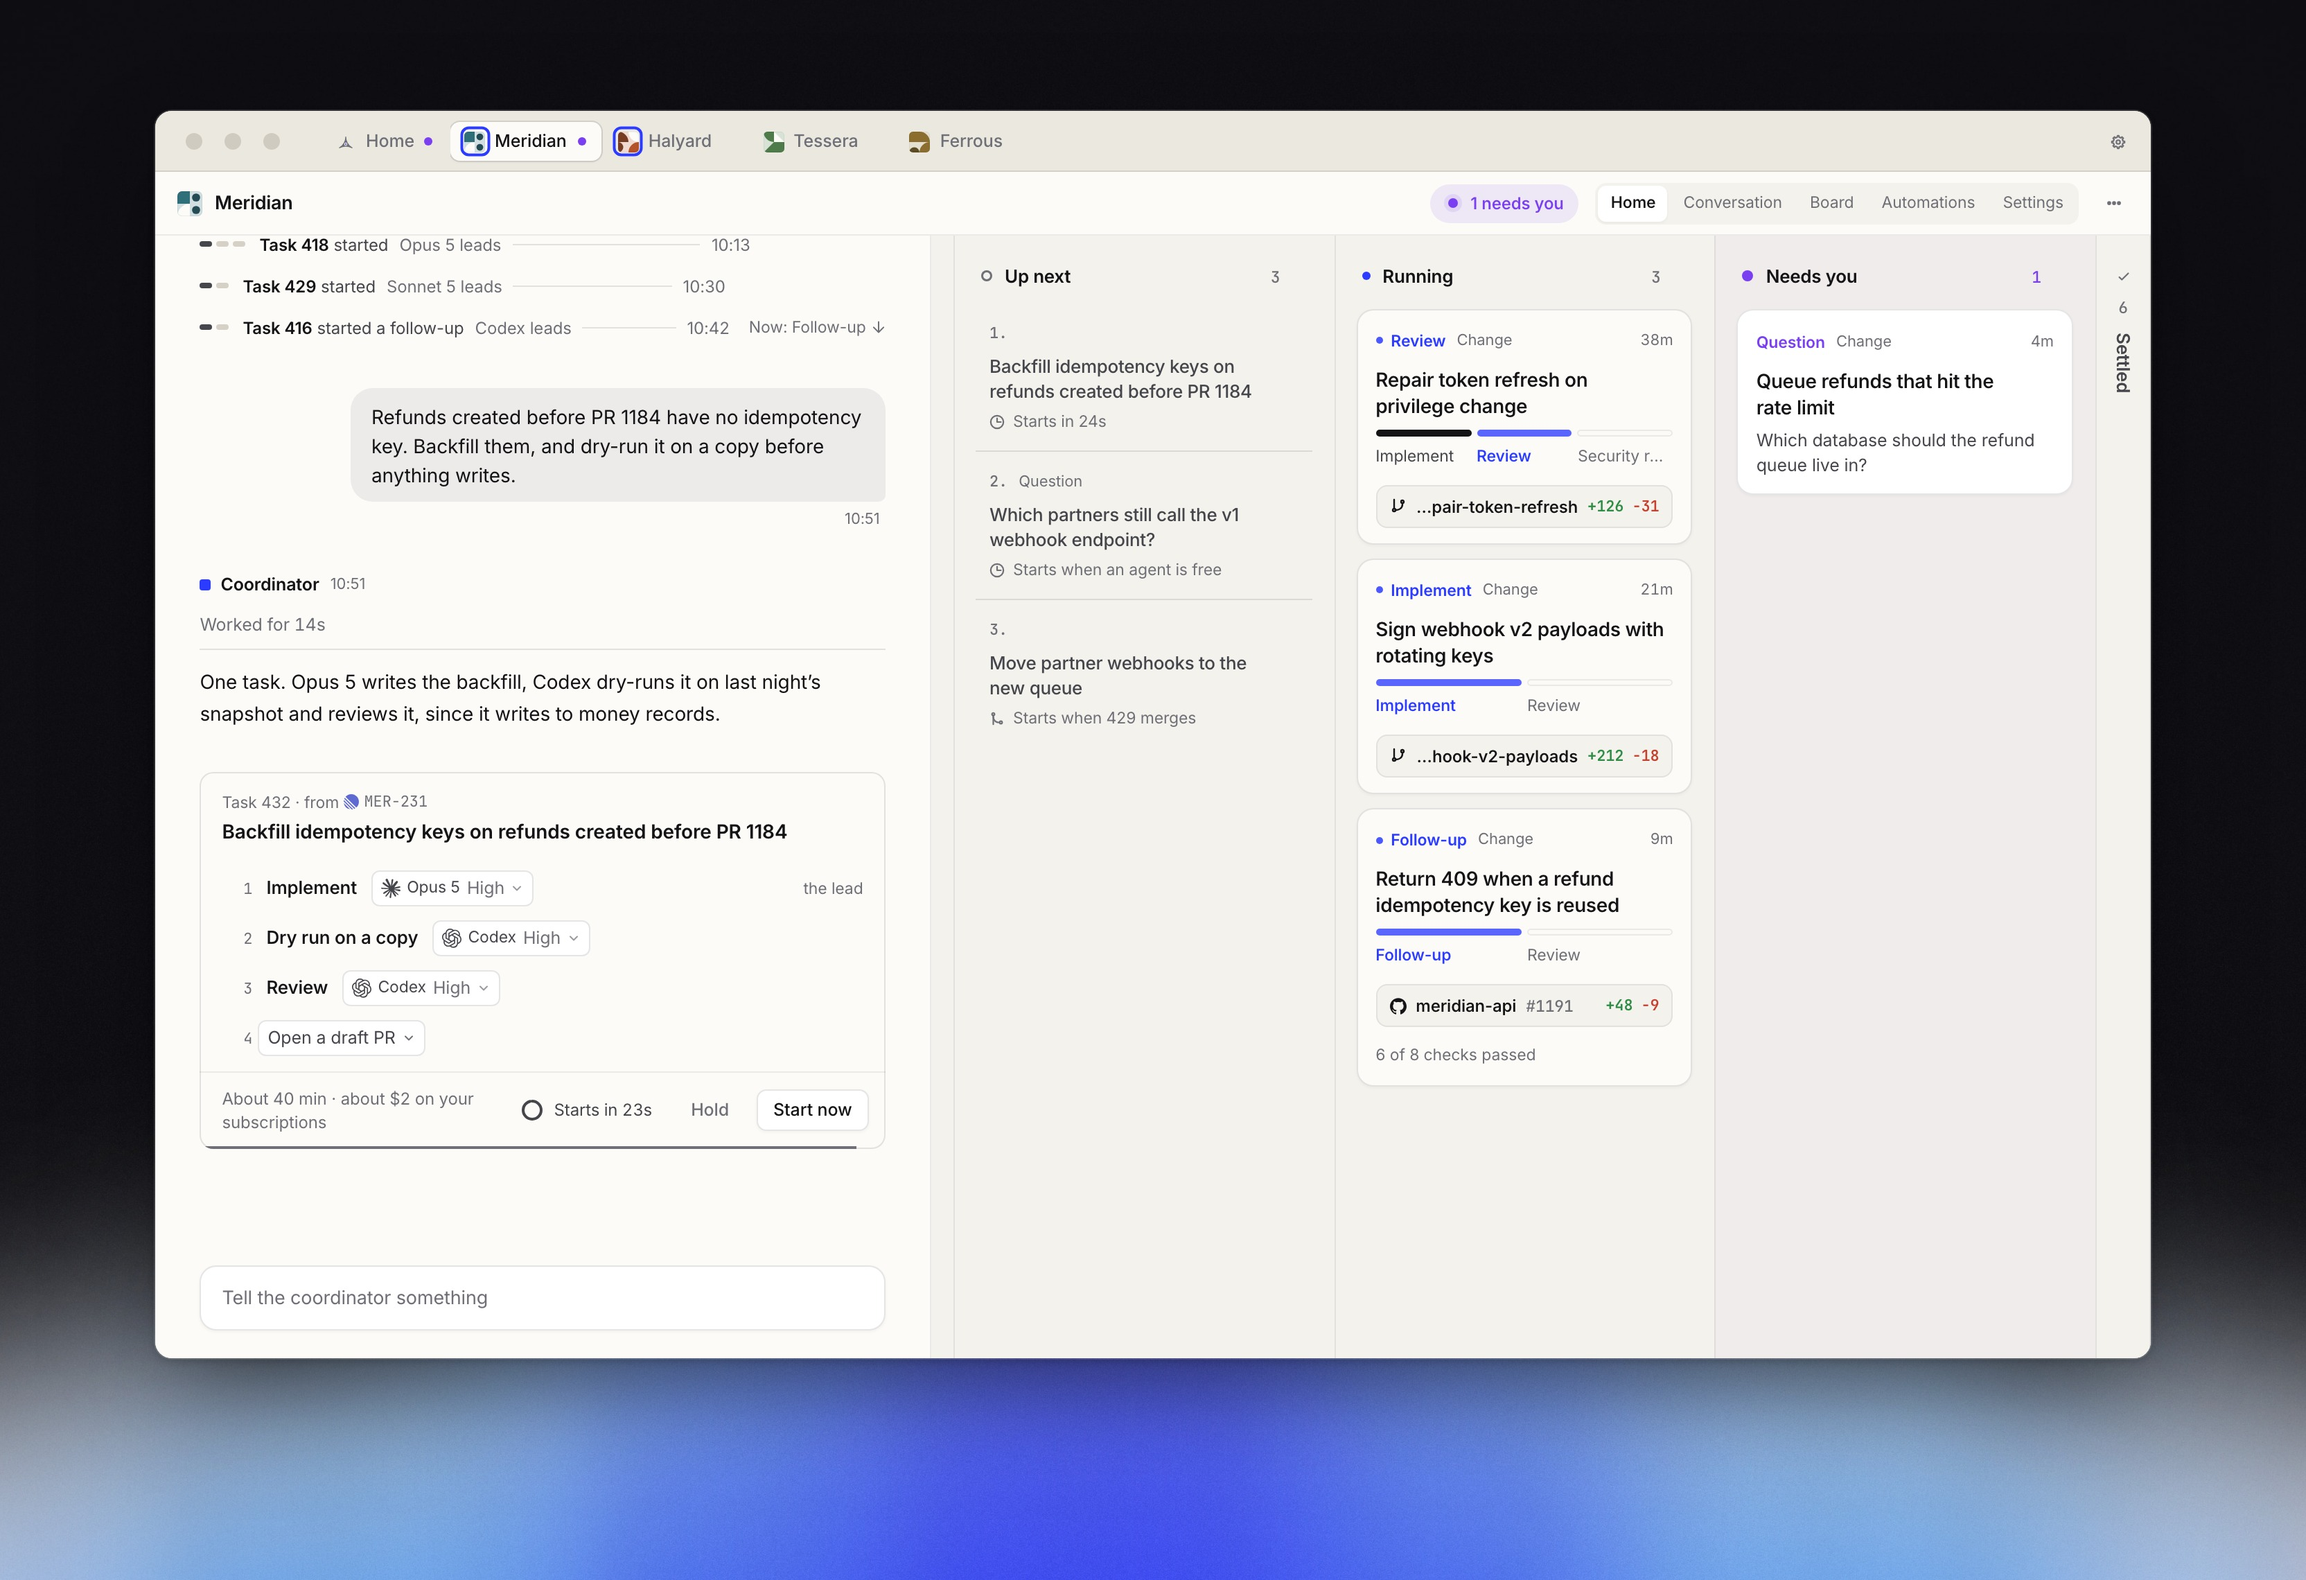
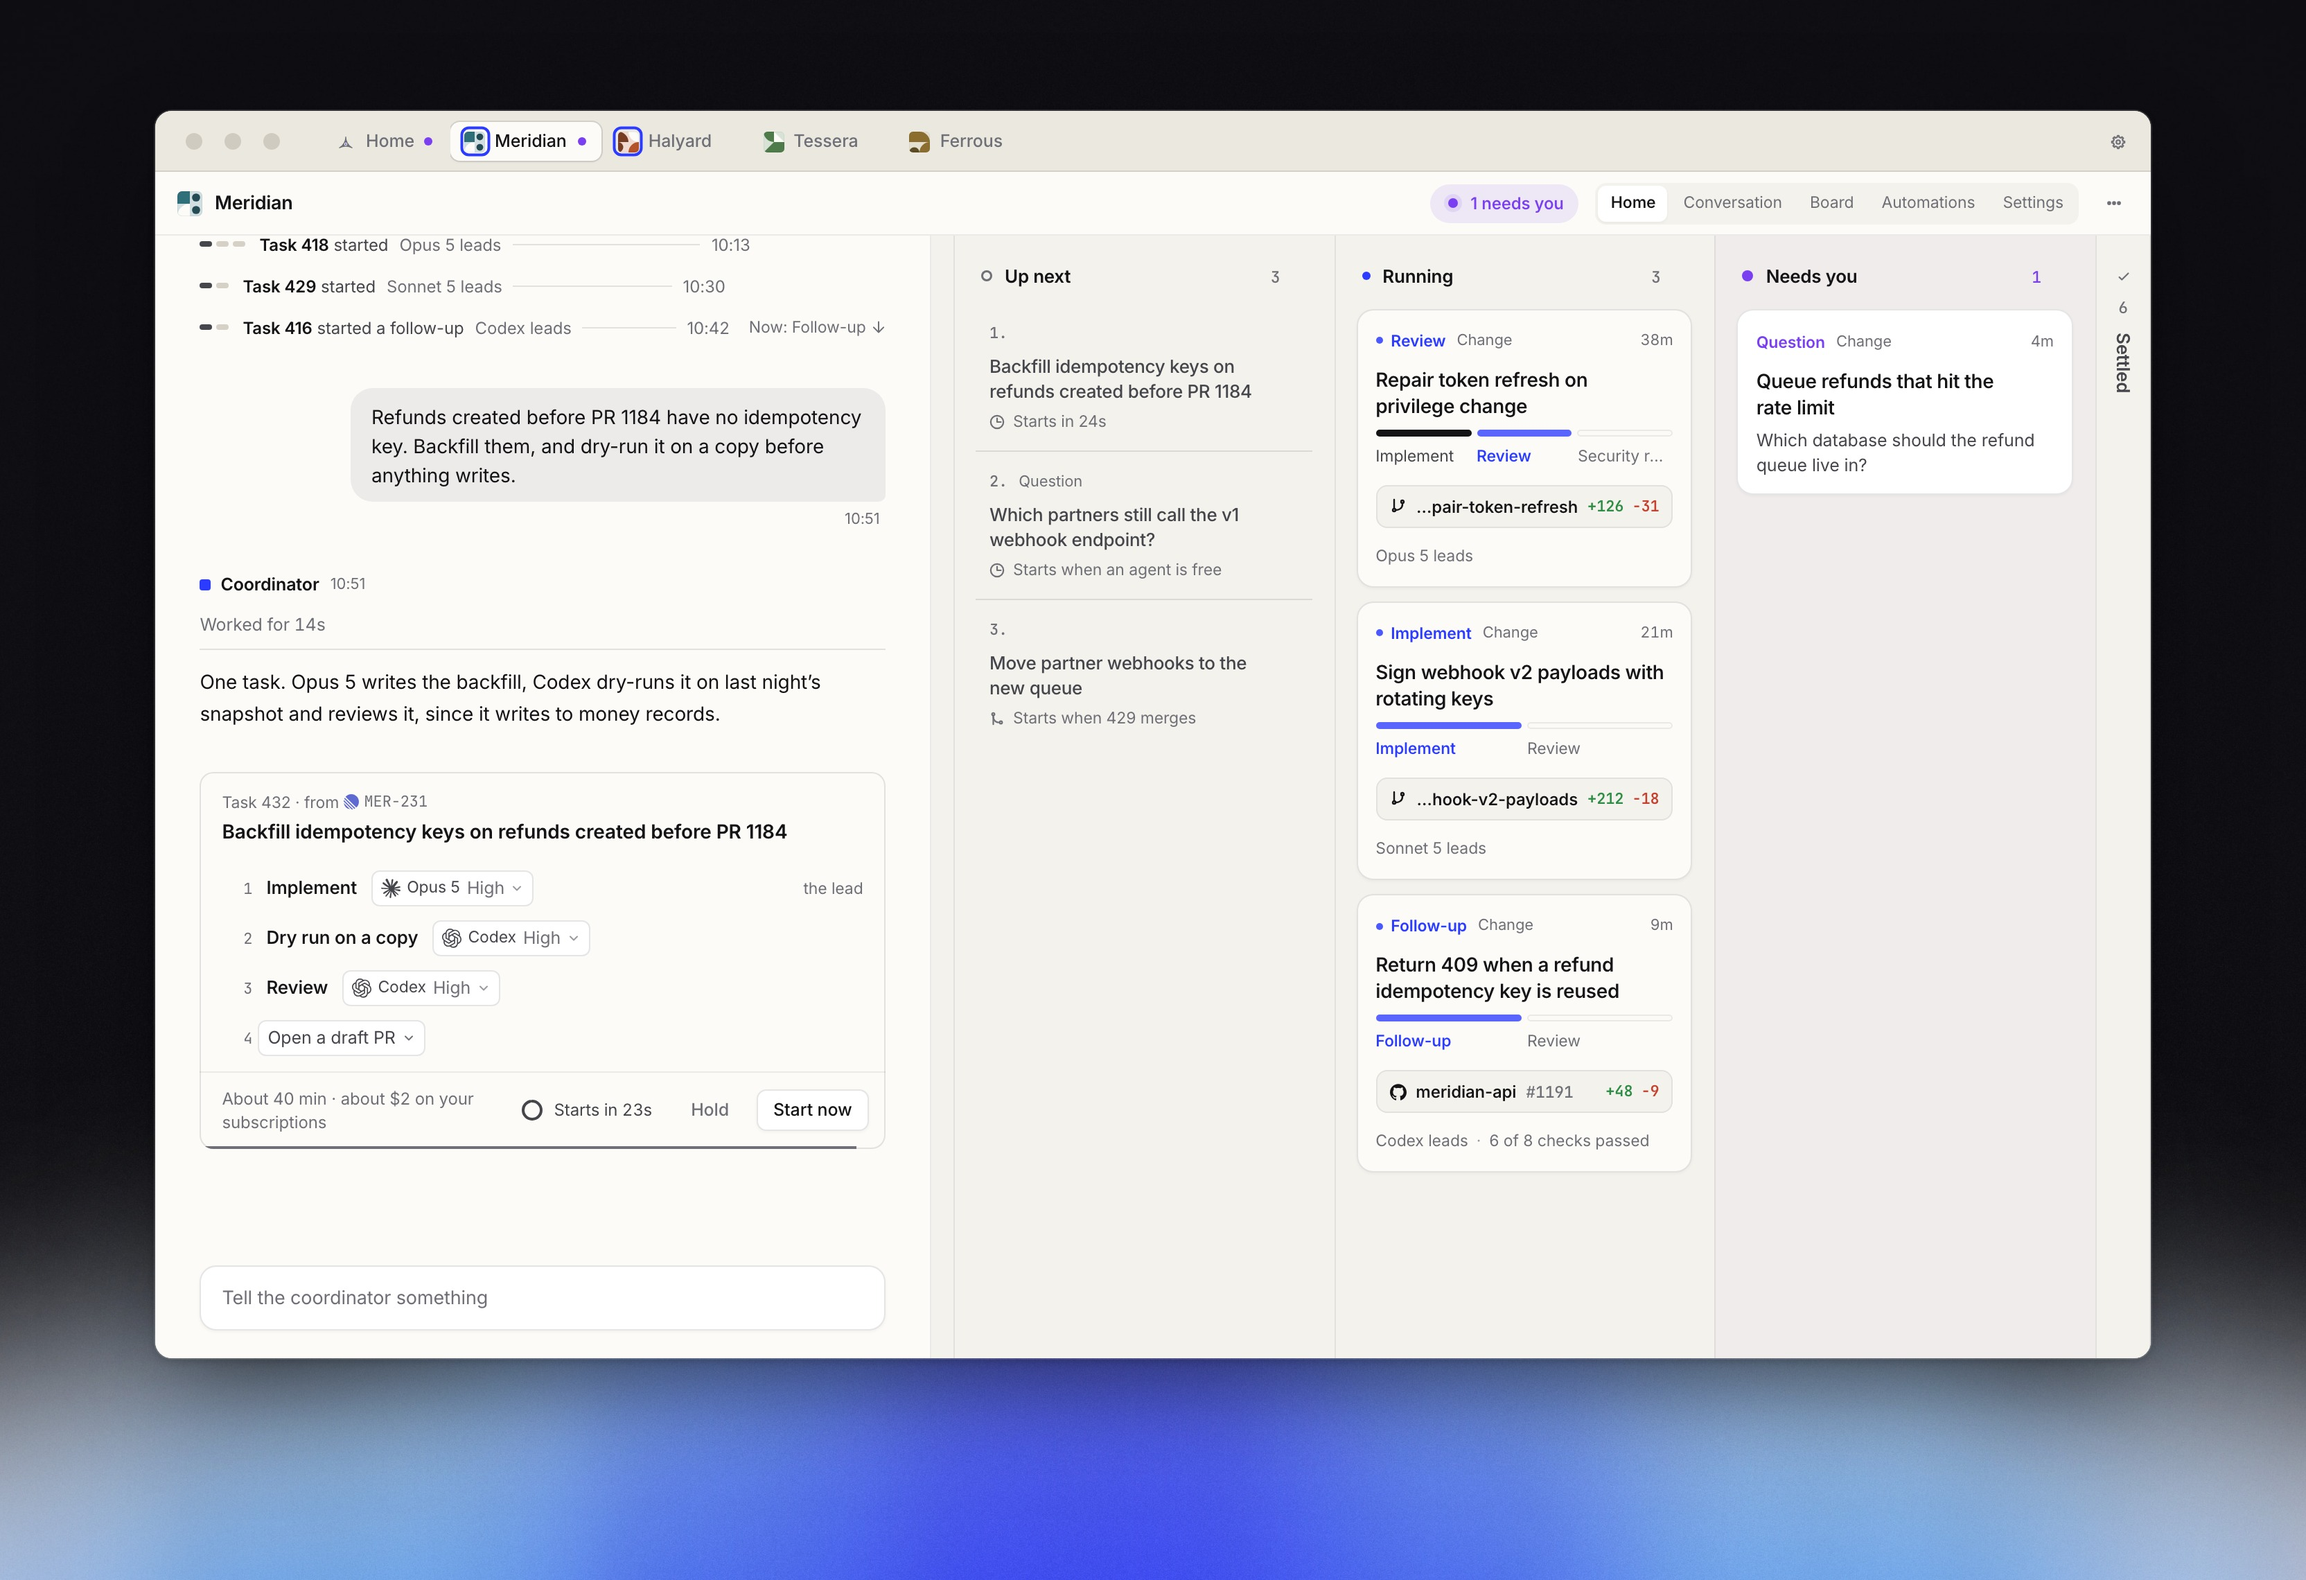
Each running task's lead on its card in the project-home shot, and the island reel retaken
The board cards now say which model leads each running task, as the
conversation's marks do. The island reel predates the island's
current layout (actions under the command), so it is recorded again.

Changed region(s): [[0.5938, 0.3425, 0.7188, 0.7162]]

diff --git a/packages/ui/src/screens/ProjectHome/ProjectHome.stories.tsx b/packages/ui/src/screens/ProjectHome/ProjectHome.stories.tsx
@@ -4,7 +4,7 @@ import { fn } from 'storybook/test'
 
 import { Board, BoardColumn, BoardList, type BoardFolds } from '../../board/Board/Board'
 import { BoardCard, type BoardCardProps } from '../../board/BoardCard/BoardCard'
-import { BranchChip, Fact, PullChip } from '../../board/BoardCard/Chips'
+import { BranchChip, Fact, FactLine, PullChip } from '../../board/BoardCard/Chips'
 import { NextRow } from '../../board/NextRow/NextRow'
 import { ProjectHeader, type ProjectPart } from '../../chrome/ProjectHeader/ProjectHeader'
 import { ProjectTabs } from '../../chrome/ProjectTabs/ProjectTabs'
@@ -54,6 +54,7 @@ const RUNNING: Card[] = [
     title: 'Repair token refresh on privilege change',
     track: trackOf(['Implement', 'Review', 'Security review'], 1),
     object: <BranchChip name="meridian/repair-token-refresh" add={126} del={31} />,
+    foot: <Fact>{OPUS.short} leads</Fact>,
   },
   {
     status: TaskStatus.Running,
@@ -63,6 +64,7 @@ const RUNNING: Card[] = [
     title: 'Sign webhook v2 payloads with rotating keys',
     track: trackOf(['Implement', 'Review'], 0),
     object: <BranchChip name="meridian/sign-webhook-v2-payloads" add={212} del={18} />,
+    foot: <Fact>{SONNET.short} leads</Fact>,
   },
   {
     status: TaskStatus.Running,
@@ -72,7 +74,12 @@ const RUNNING: Card[] = [
     title: 'Return 409 when a refund idempotency key is reused',
     track: trackOf(['Follow-up', 'Review'], 0),
     object: <PullChip host={GITHUB} repo="meridian-api" number={1191} add={48} del={9} />,
-    foot: <Fact>6 of 8 checks passed</Fact>,
+    foot: (
+      <FactLine>
+        <Fact>{CODEX.short} leads</Fact>
+        <Fact>6 of 8 checks passed</Fact>
+      </FactLine>
+    ),
   },
 ]
 
